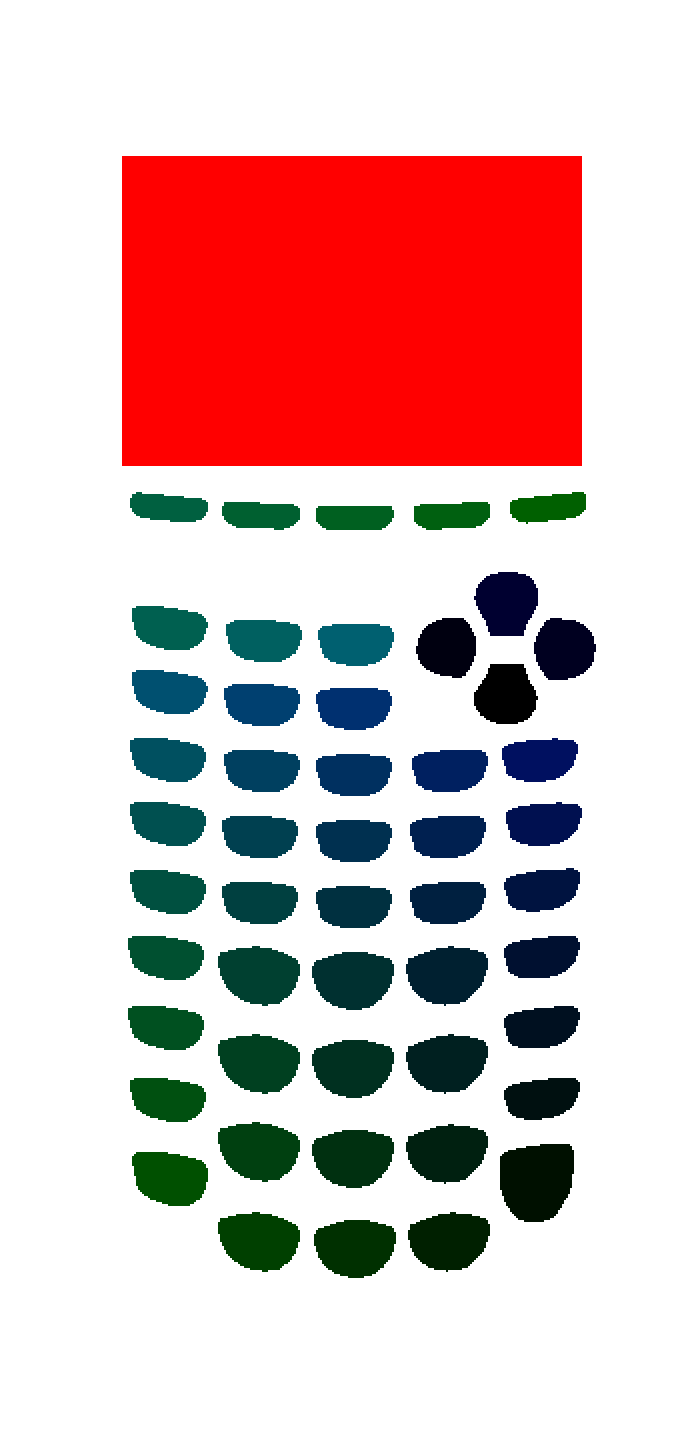
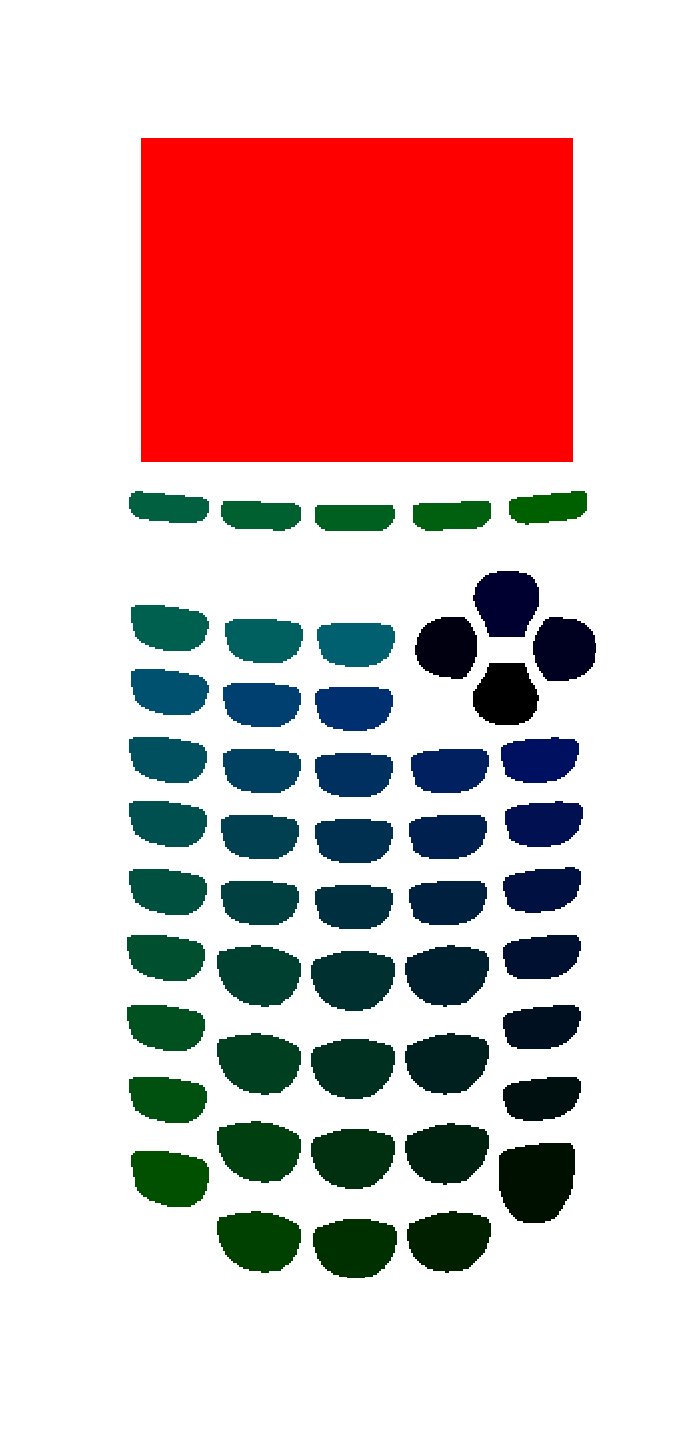
Fixed detached lcd sizing Fixed race condition sending ROM Improved lcd scaling for upscaled skins

Changed region(s): [[0.15, 0.0931, 0.84, 0.3414]]

diff --git a/gui/guisize.c b/gui/guisize.c
@@ -42,7 +42,7 @@ LRESULT HandleSizeMessage(HWND hwnd, HWND hwndLcd, LPCALC lpCalc, BOOL skinEnabl
 	CopyRect(&rc, &lpCalc->rectLCD);
 
 	UINT default_scale = GetDefaultKeymapScale(lpCalc->model);
-	UINT scale = skinEnabled ? default_scale : lpCalc->scale;
+	UINT scale = skinEnabled ? default_scale : max(lpCalc->scale, default_scale);
 	int silentMode = silent_mode ? SWP_HIDEWINDOW : 0;
 	UINT lcdWidth, lcdHeight;
 	if (skinEnabled) {
@@ -95,7 +95,7 @@ LRESULT HandleSizeMessage(HWND hwnd, HWND hwndLcd, LPCALC lpCalc, BOOL skinEnabl
 }
 
 // TODO: better names and types
-LRESULT HandleLCDSizingMessage(HWND hwnd, LPCALC lpCalc, WPARAM wParam, RECT *prc) {
+LRESULT HandleLCDSizingMessage(HWND hwnd, LPCALC lpCalc, WPARAM wParam, RECT *prc, LONG lcdWidth) {
 	LCDBase_t *lcd = lpCalc->cpu.pio.lcd;
 	LONG ClientAdjustWidth, ClientAdjustHeight;
 	LONG AdjustWidth, AdjustHeight;
@@ -128,10 +128,10 @@ LRESULT HandleLCDSizingMessage(HWND hwnd, LPCALC lpCalc, WPARAM wParam, RECT *pr
 	case WMSZ_BOTTOMLEFT:
 	case WMSZ_LEFT:
 	case WMSZ_TOPLEFT:
-		prc->left -= lcd->width / 4;
+		prc->left -= lcdWidth / 4;
 		break;
 	default:
-		prc->right += lcd->width / 4;
+		prc->right += lcdWidth / 4;
 		break;
 	}
 
@@ -148,20 +148,20 @@ LRESULT HandleLCDSizingMessage(HWND hwnd, LPCALC lpCalc, WPARAM wParam, RECT *pr
 
 
 	// Make sure the width is a nice clean proportional sizing
-	AdjustWidth = (prc->right - prc->left - ClientAdjustWidth) % lcd->width;
+	AdjustWidth = (prc->right - prc->left - ClientAdjustWidth) % lcdWidth;
 	AdjustHeight = (prc->bottom - prc->top - ClientAdjustHeight) % lcd->height;
 
-	int cx_mult = (prc->right - prc->left - ClientAdjustWidth) / lcd->width;
+	int cx_mult = (prc->right - prc->left - ClientAdjustWidth) / lcdWidth;
 	int cy_mult = (prc->bottom - prc->top - ClientAdjustHeight) / lcd->height;
 
 	int min_scale = GetDefaultKeymapScale(lpCalc->model);
 	while (cx_mult < min_scale || cy_mult < min_scale) {
-		if (cx_mult < min_scale) { cx_mult++; AdjustWidth -= lcd->width; }
+		if (cx_mult < min_scale) { cx_mult++; AdjustWidth -= lcdWidth; }
 		if (cy_mult < min_scale) { cy_mult++; AdjustHeight -= lcd->height; }
 	}
 
 	if (cx_mult > cy_mult) {
-		AdjustWidth += (cx_mult - cy_mult) * lcd->width;
+		AdjustWidth += (cx_mult - cy_mult) * lcdWidth;
 	} else if (cy_mult > cx_mult) {
 		AdjustHeight += (cy_mult - cx_mult) * lcd->height;
 	}

diff --git a/gui/guidetached.c b/gui/guidetached.c
@@ -9,10 +9,10 @@
 extern HINSTANCE g_hInst;
 
 LRESULT CALLBACK DetachedProc(HWND hwnd, UINT msg, WPARAM wParam, LPARAM lParam) {
-	static LPCALC lpCalc;
 	switch (msg) {
 	case WM_CREATE: {
-		lpCalc = (LPCALC)((LPCREATESTRUCT)lParam)->lpCreateParams;
+		LPCALC lpCalc = (LPCALC)((LPCREATESTRUCT)lParam)->lpCreateParams;
+		SetWindowLongPtr(hwnd, GWLP_USERDATA, (LONG_PTR)lpCalc);
 
 		int lcdWidth =  lpCalc->cpu.pio.lcd->display_width;
 		int lcdHeight = lpCalc->cpu.pio.lcd->height;
@@ -25,26 +25,35 @@ LRESULT CALLBACK DetachedProc(HWND hwnd, UINT msg, WPARAM wParam, LPARAM lParam)
 			hwnd, NULL, g_hInst, (LPVOID *)lpCalc);
 		return FALSE;
 	}
-		case WM_DESTROY:
-			lpCalc->hwndDetachedLCD = NULL;
-			lpCalc->hwndDetachedFrame = NULL;
-			return FALSE;
-		case WM_KEYDOWN:
-			HandleKeyDown(lpCalc, wParam);
-			return FALSE;
-		case WM_KEYUP:
-			if (wParam) {
-				HandleKeyUp(lpCalc, wParam);
-			}
-			return FALSE;
-		case WM_COMMAND:
-			return FALSE;
-		case WM_SIZING: {
-			return HandleLCDSizingMessage(hwnd, lpCalc, wParam, (RECT *)lParam);
+	case WM_DESTROY: {
+		LPCALC lpCalc = (LPCALC)GetWindowLongPtr(hwnd, GWLP_USERDATA);
+		lpCalc->hwndDetachedLCD = NULL;
+		lpCalc->hwndDetachedFrame = NULL;
+		return FALSE;
+	}
+	case WM_KEYDOWN: {
+		LPCALC lpCalc = (LPCALC)GetWindowLongPtr(hwnd, GWLP_USERDATA);
+		HandleKeyDown(lpCalc, wParam);
+		return FALSE;
+	}
+	case WM_KEYUP: {
+		if (wParam) {
+			LPCALC lpCalc = (LPCALC)GetWindowLongPtr(hwnd, GWLP_USERDATA);
+			HandleKeyUp(lpCalc, wParam);
 		}
-		case WM_SIZE: {
-			return HandleSizeMessage(hwnd, lpCalc->hwndDetachedLCD, lpCalc, FALSE);
-		}
+		return FALSE;
+	}
+	case WM_COMMAND:
+		return FALSE;
+	case WM_SIZING: {
+		LPCALC lpCalc = (LPCALC)GetWindowLongPtr(hwnd, GWLP_USERDATA);
+		LCDBase_t *lcd = lpCalc->cpu.pio.lcd;
+		return HandleLCDSizingMessage(hwnd, lpCalc, wParam, (RECT *)lParam, lcd->display_width);
+	}
+	case WM_SIZE: {
+		LPCALC lpCalc = (LPCALC)GetWindowLongPtr(hwnd, GWLP_USERDATA);
+		return HandleSizeMessage(hwnd, lpCalc->hwndDetachedLCD, lpCalc, FALSE);
+	}
 	}
 	return DefWindowProc(hwnd, msg, wParam, lParam);
 }

diff --git a/gui/guilcd.c b/gui/guilcd.c
@@ -352,15 +352,32 @@ void PaintLCD(HWND hwnd, HDC hdcDest) {
 	} else {
 		BOOL lcd_scaled = (rc.right - rc.left) % lcd->display_width;
 		screen = lcd->image(lcd);
+
 		if (lcd_scaled) {
+			LONG clientWidth = rc.right - rc.left;
+			LONG clientHeight = rc.bottom - rc.top;
+			LONG clientScaleWidth = max(1, clientWidth / lcd->display_width) * lcd->display_width;
+			LONG clientScaleHeight = max(1, clientHeight / lcd->height) * lcd->height;
+
+			Graphics graphics(hdc);
 			Bitmap lcdBitmap(info, screen);
-			Graphics g(hdc);
-			g.SetInterpolationMode(InterpolationModeLowQuality);
-			Rect rect(rc.left, rc.top, rc.right - rc.left + 1,  rc.bottom - rc.top + 1);
-			g.DrawImage(&lcdBitmap, rect, 0, 0, lcd->display_width, lcd->height, UnitPixel);
+			Bitmap scaledBitmap((INT)clientScaleWidth, (INT)clientScaleHeight, &graphics);
+			Bitmap *bitmap = &lcdBitmap;
+			if (clientScaleWidth != lcd->display_width && clientScaleHeight != lcd->height) {
+				Graphics scaledGraphics(&scaledBitmap);
+				scaledGraphics.SetInterpolationMode(InterpolationModeNearestNeighbor);
+				// +1 because otherwise there is a black line at max width and max height
+				Rect scaleRect(rc.left, rc.top, clientScaleWidth + 1, clientScaleHeight + 1);
+				scaledGraphics.DrawImage(&lcdBitmap, scaleRect, 0, 0, lcd->display_width, lcd->height, UnitPixel);
+				bitmap = &scaledBitmap;
+			}
+
+			graphics.SetInterpolationMode(InterpolationModeLowQuality);
+			Rect rect(rc.left, rc.top, clientWidth + 1, clientHeight + 1);
+			graphics.DrawImage(bitmap, rect, 0, 0, clientScaleWidth, clientScaleHeight, UnitPixel);
 			rect.Width--;
 			rect.Height--;
-			g.SetClip(rect);
+			graphics.SetClip(rect);
 		} else {
 			SetStretchBltMode(hdc, BLACKONWHITE);
 			if (StretchDIBits(hdc,
@@ -369,9 +386,10 @@ void PaintLCD(HWND hwnd, HDC hdcDest) {
 							screen,
 							info,
 							DIB_RGB_COLORS,
-							SRCCOPY) == 0) {
-							_tprintf_s(_T("error in SetDIBitsToDevice\n"));
-						}
+							SRCCOPY) == 0)
+			{
+				_tprintf_s(_T("error in SetDIBitsToDevice\n"));
+			}
 		}
 
 		BLENDFUNCTION bf;

diff --git a/utilities/sendfileswindows.cpp b/utilities/sendfileswindows.cpp
@@ -21,6 +21,7 @@ public:
 	
 	// Download progress
 	int iCurrentFile;
+	BOOL isRom;
 	ULONG ulBytesSent;
 	ULONG ulFileSize;
 	
@@ -107,8 +108,15 @@ static DWORD CALLBACK SendFileToCalcThread(LPVOID lpParam) {
 
 	lpsi->Error = LERR_SUCCESS;
 	for (lpsi->iCurrentFile = 0; lpsi->iCurrentFile < lpsi->FileList->size(); lpsi->iCurrentFile++)	{
-		SendMessage(lpsi->hwndDlg, WM_USER, 0, NULL);
-		lpsi->Error = SendFile(lpCalc, lpsi->FileList->at(lpsi->iCurrentFile).c_str(), lpsi->DestinationList->at(lpsi->iCurrentFile));
+		const TCHAR *filename = lpsi->FileList->at(lpsi->iCurrentFile).c_str();
+		TIFILE_t *var = importvar(filename, TRUE);
+		if (var != NULL && var->type != ROM_TYPE) {
+			SendMessage(lpsi->hwndDlg, WM_USER, 0, NULL);
+		} else {
+			lpsi->isRom = true;
+		}
+
+		lpsi->Error = SendFile(lpCalc, filename, lpsi->DestinationList->at(lpsi->iCurrentFile));
 		if (lpsi->Error != LERR_SUCCESS) {
 			if (MessageBox(lpsi->hwndDlg, g_szLinkErrorDescriptions[lpsi->Error], _T("Wabbitemu"), MB_OKCANCEL | MB_ICONERROR) == IDCANCEL) {
 				break;
@@ -217,6 +225,7 @@ static LINK_ERR SendFile(const LPCALC lpCalc, LPCTSTR lpszFileName, SEND_FLAG De
 					//81 for now
 					break;
 				}
+
 				lpCalc->cpu.pio.link->vlink_size = var->length;
 				lpCalc->cpu.pio.link->vlink_send = 0;
 				BOOL running_backup = lpCalc->running;
@@ -471,9 +480,10 @@ static LRESULT CALLBACK SendProc(HWND hwnd, UINT Message, WPARAM wParam, LPARAM 
 	case WM_USER:
 		{
 			LPCALC lpCalc = (LPCALC) GetWindowLongPtr(hwnd, GWLP_USERDATA);
+			LPSENDINFO lpsi = g_SendInfo[lpCalc];
 			HWND hwndProgress = GetDlgItem(hwnd, 1);
 			// Update the progress bar
-			if (lpCalc->cpu.pio.link == NULL)
+			if (lpsi->isRom || lpCalc->cpu.pio.link == NULL)
 			{
 				SendMessage(hwndProgress, PBM_SETRANGE, 0, MAKELPARAM(0, 1));
 				SendMessage(hwndProgress, PBM_SETPOS, 1, 0);

diff --git a/gui/guisize.h b/gui/guisize.h
@@ -6,7 +6,7 @@
 unsigned int GetDefaultKeymapScale(int model);
 LRESULT HandleMoveMessage(HWND hwnd, LPCALC lpCalc);
 LRESULT HandleSizeMessage(HWND hwnd, HWND hwndLcd, LPCALC lpCalc, BOOL skinEnabled);
-LRESULT HandleLCDSizingMessage(HWND hwnd, LPCALC lpCalc, WPARAM wParam, RECT *prc);
+LRESULT HandleLCDSizingMessage(HWND hwnd, LPCALC lpCalc, WPARAM wParam, RECT *prc, LONG lcdWidth);
 LRESULT HandleSkinSizingMessage(HWND hwnd, LPCALC lpCalc, WPARAM wParam, RECT *prc);
 LRESULT GetMinMaxInfo(HWND hwnd, LPCALC lpCalc, MINMAXINFO *info);
 

diff --git a/gui/gui.c b/gui/gui.c
@@ -1524,7 +1524,7 @@ LRESULT CALLBACK WndProc(HWND hwnd, UINT Message, WPARAM wParam, LPARAM lParam) 
 		if (lpCalc->bSkinEnabled) {
 			return HandleSkinSizingMessage(hwnd, lpCalc, wParam, (RECT *)lParam);
 		}
-		return HandleLCDSizingMessage(hwnd, lpCalc, wParam, (RECT *) lParam);
+		return HandleLCDSizingMessage(hwnd, lpCalc, wParam, (RECT *) lParam, lpCalc->cpu.pio.lcd->width);
 	case WM_SIZE:
 		return HandleSizeMessage(hwnd, lpCalc->hwndLCD, lpCalc, lpCalc->bSkinEnabled);
 	case WM_MOVE: {

diff --git a/gui/registry.c b/gui/registry.c
@@ -13,7 +13,7 @@ extern keyprog_t defaultkeysti86[256];
 extern keyprog_t defaultkeysti83[256];
 const TCHAR *appName = _T("Wabbitemu");
 const TCHAR *debugName = _T("Debug");
-const TCHAR *verString = _T("1.8.2.25");
+const TCHAR *verString = _T("1.8.2.26");
 
 static HKEY hkeyTarget = NULL;
 
